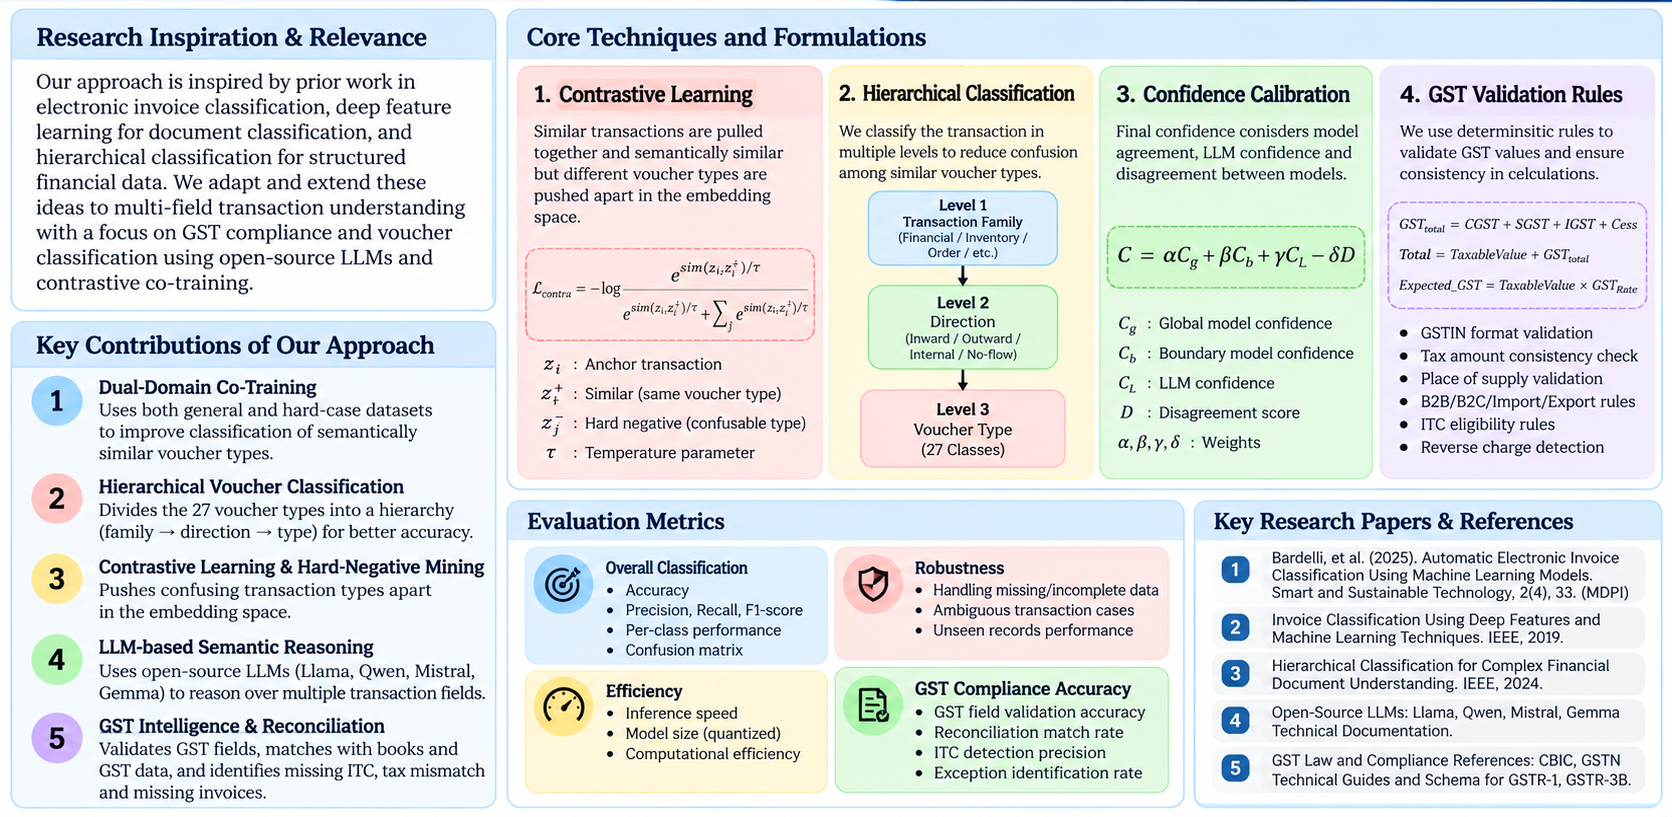
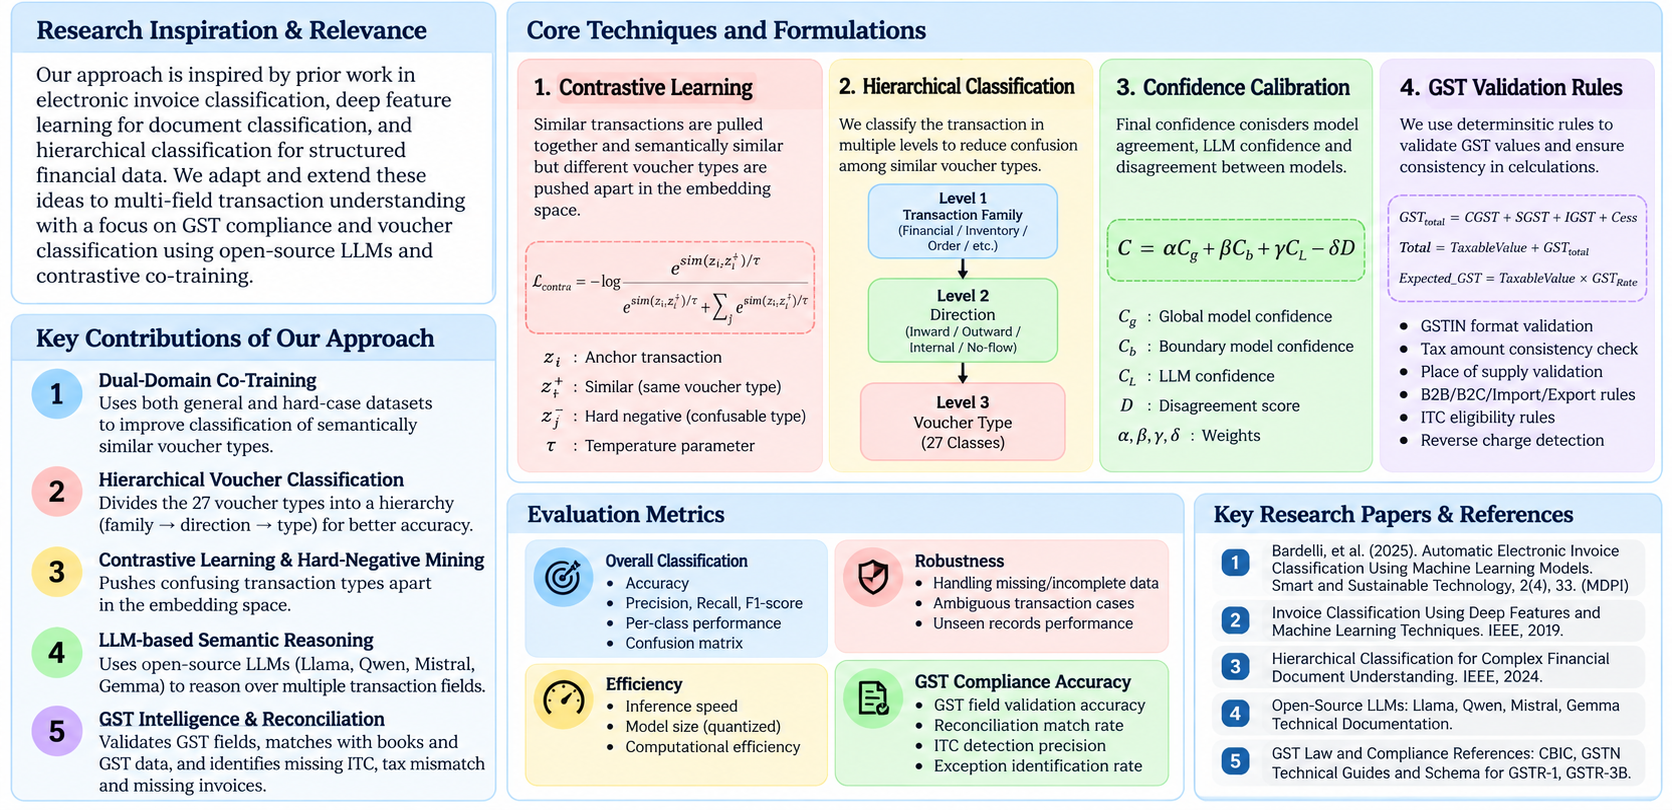
symbols updated

Changed region(s): [[0.0, 0.0, 1.0, 0.9568]]

diff --git a/README.md b/README.md
@@ -403,49 +403,22 @@ $$\mathcal{L}_{\text{contrastive}} = -\log \frac{\exp(\text{sim}(z_i, z_i^+) / \
 
 ---
 
-## 13. Agentic Workflow (If Applicable)
-
-> [!NOTE]
-> **Deterministic Design Philosophy**  
-> VYOM+ strictly avoids unconstrained autonomous agent loops for core transaction classification and tax calculations. Financial records require deterministic, auditable, and repeatable execution.
-
-An **agentic investigation pattern** is activated exclusively for **Discrepancy Resolution & Audit Trail Generation**:
-
-```text
-[Discrepancy Event Detected]
-             │
-             ▼
-[Step 1: Ledger Retrieval] ────────► Query historical transactions for supplier GSTIN
-             │
-             ▼
-[Step 2: Cross-Period Lookback] ───► Inspect prior 6 months for delayed credit notes or payments
-             │
-             ▼
-[Step 3: Variance Hypothesis] ─────► Propose root cause:
-                                     (e.g., "Supplier reported under B2C instead of B2B")
-             │
-             ▼
-[Step 4: Recommendation Engine] ───► Generate action recommendation for tax practitioner review
-```
-
----
-
 ## 14. Technology Stack
 
 | Layer | Technology | Version | Purpose |
 | :--- | :--- | :--- | :--- |
-| **Language Runtime** | **Python** | `3.10+` | Core asynchronous backend runtime |
-| **API Framework** | **FastAPI** | `0.110+` | High-throughput asynchronous REST microservices |
-| **Data Processing** | **Pandas & NumPy** | `2.2+` | Tabular vectorization, cleaning, and normalization |
-| **Spreadsheet Engine** | **OpenPyXL** | `3.1+` | High-performance streaming Excel parsing & formatting |
-| **Deep Learning** | **PyTorch** | `2.2+` | Dual-domain neural encoders and contrastive training |
-| **Model Registry** | **Hugging Face** | `4.38+` | Transformer tokenizers, weights, and PEFT / LoRA |
-| **LLM Inference** | **vLLM** | `0.4+` | PagedAttention local inference engine |
-| **Vector Search** | **FAISS** | `1.8+` | Dense retrieval of known hard-case boundary samples |
-| **Validation Layer** | **Pydantic V2** | `2.6+` | Strict schema validation and statutory type enforcement |
-| **Database** | **PostgreSQL** | `16+` | Transaction audit logs and reconciliation datastore |
-| **Cache & Queuing** | **Redis** | `7.2+` | Hard negative task queue and intermediate result caching |
-| **Containerization** | **Docker** | `25.0+` | Reproducible deployment and GPU container orchestration |
+| Language Runtime | [![Python](https://img.shields.io/badge/Python-3.10%2B-3776AB)](https://www.python.org/) | `3.10+` | Core asynchronous backend runtime |
+| API Framework | [![FastAPI](https://img.shields.io/badge/FastAPI-0.110%2B-009688)](https://fastapi.tiangolo.com/) | `0.110+` | High-throughput asynchronous REST microservices |
+| Data Processing | [![Pandas](https://img.shields.io/badge/Pandas%20%26%20NumPy-2.2%2B-150458)](https://pandas.pydata.org/) | `2.2+` | Tabular vectorization, cleaning, and normalization |
+| Spreadsheet Engine | [![OpenPyXL](https://img.shields.io/badge/OpenPyXL-3.1%2B-2E7D32)](https://openpyxl.readthedocs.io/) | `3.1+` | Excel parsing & formatting |
+| Deep Learning | [![PyTorch](https://img.shields.io/badge/PyTorch-2.2%2B-EE4C2C)](https://pytorch.org/) | `2.2+` | Dual-domain encoders and contrastive training |
+| Model Registry | [![Hugging Face](https://img.shields.io/badge/Hugging%20Face-4.38%2B-FFD21E)](https://huggingface.co/) | `4.38+` | Transformers, weights, and PEFT / LoRA |
+| LLM Inference | [![vLLM](https://img.shields.io/badge/vLLM-0.4%2B-4F46E5)](https://vllm.ai/) | `0.4+` | Local LLM inference |
+| Vector Search | [![FAISS](https://img.shields.io/badge/FAISS-1.8%2B-0284C7)](https://github.com/facebookresearch/faiss) | `1.8+` | Hard-case semantic retrieval |
+| Validation Layer | [![Pydantic](https://img.shields.io/badge/Pydantic_V2-2.6%2B-E92063)](https://docs.pydantic.dev/) | `2.6+` | Schema validation |
+| Database | [![PostgreSQL](https://img.shields.io/badge/PostgreSQL-16%2B-4169E1)](https://www.postgresql.org/) | `16+` | Audit logs and reconciliation datastore |
+| Cache & Queuing | [![Redis](https://img.shields.io/badge/Redis-7.2%2B-DC382D)](https://redis.io/) | `7.2+` | Task queue and caching |
+| Containerization | [![Docker](https://img.shields.io/badge/Docker-25.0%2B-2496ED)](https://www.docker.com/) | `25.0+` | Reproducible deployment |
 
 ---
 
@@ -615,7 +588,7 @@ AUDIT DISCREPANCIES DETECTED
 
 The architectural framework of VYOM+ is grounded in established peer-reviewed research in automated financial document understanding, particularly studies showing that structured invoice schemas combined with text representations yield superior performance when classified via hierarchical architectures:
 
-> **Academic Reference:**  
+ **Academic Reference:**  
 ![Figure 3: GST Intelligence Layer & Feature Pipeline](docs\VYOM_ResearchandReferencesInfographic.png)
 
 
